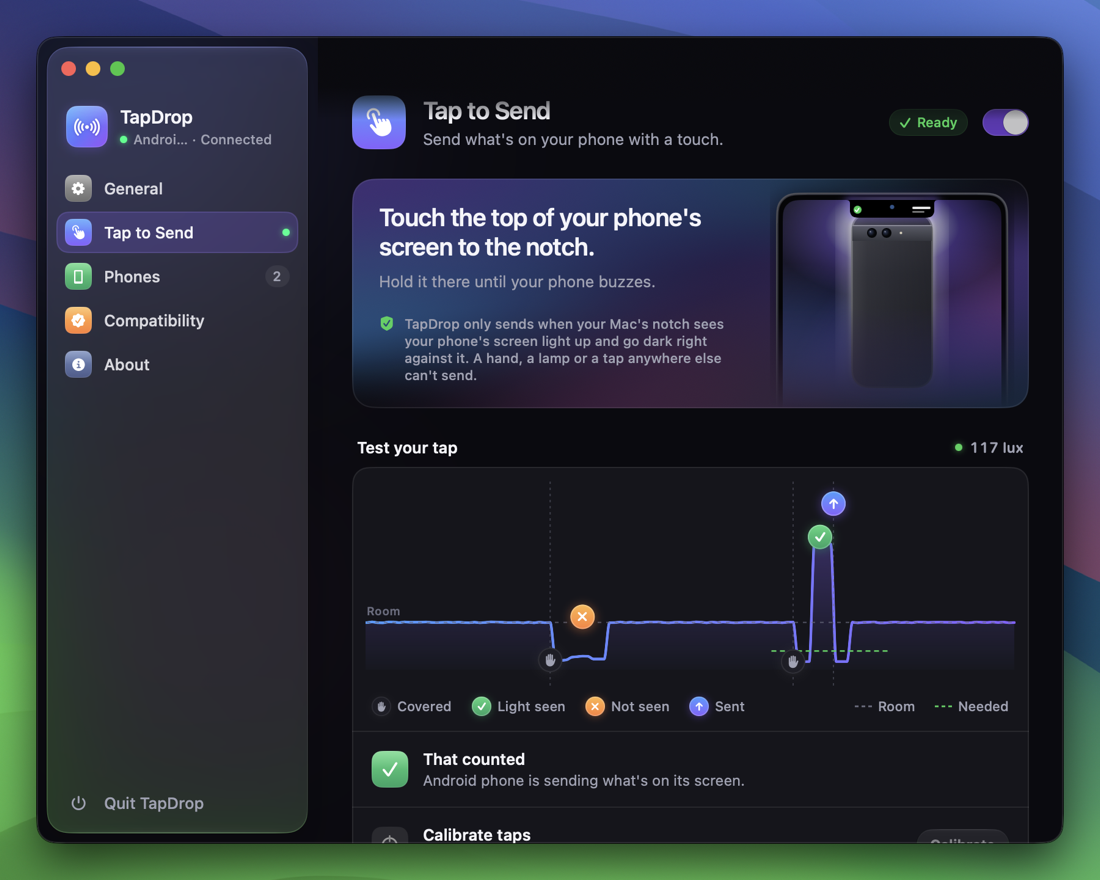
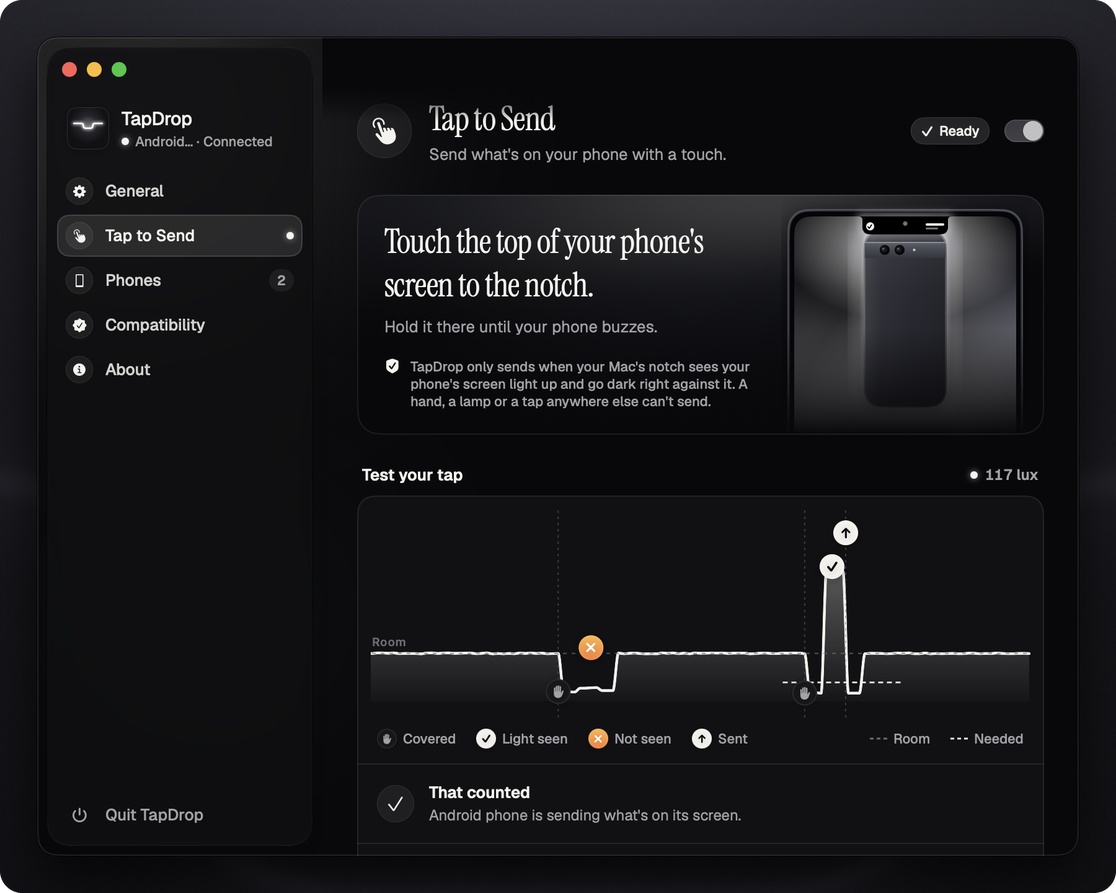
README and docs in Lumen: new screenshots, light and dark
Every picture in the README is new, from the emulator and a stand-in
Mac, in both looks; GitHub shows the one that matches the reader's
theme. DESIGN.md describes Lumen as the apps build it, and the labels
that changed in the apps (Photos & videos for tap, the menu bar icon)
are right in the README, the install guide and the website.

diff --git a/docs/DESIGN.md b/docs/DESIGN.md
@@ -1,63 +1,79 @@
-# TapDrop design system
+# TapDrop design system: Lumen
 
 One product on two platforms. Each app should feel native to its platform and built by the same people.
-The Mac app is native SwiftUI with Liquid Glass. The Android app uses Material 3 Expressive with real glass blur.
+The Mac app is native SwiftUI with Liquid Glass. The Android app is Jetpack Compose on Material 3 Expressive, with
+real glass blur. The website (`site/`) follows the same system; its tokens are in `site/src/styles/tokens.css`.
+
+The tokens live in code: `mac/Sources/TapDrop/DesignSystem.swift` (`TD`, `TDFont`, `TDGlass`) and
+`android/app/src/main/kotlin/app/tapdrop/ui/Theme.kt` (`Brand`, `Td.colors`, `Td.type`, `TdSpace`, `TdRadius`,
+`TdMotion`). This page is the source of truth; change it first.
 
 ## Idea
 
-TapDrop is about light. A tap only counts when the Mac's notch sees the phone's light. The visual language
-follows from that: deep, quiet surfaces, luminous accents, and motion that feels physical (springs, momentum,
-glow). Everything else steps back so the content (photos, links, codes) is the hero.
+**Light, in the dark.** A tap is a phone's screen lighting up against the notch and going dark, so TapDrop is made of
+night and light: near-black, bone white, and one cool glow where they meet. There is no accent hue. Colour comes from
+the person's own photos, links and files, which are always the hero. Semantic colours (danger, warning) appear only
+where something needs fixing.
+
+The mark is the **Notchline**: the notch's outline traced in one line of light. It's the app icon (the lit line on a
+night tile), the Mac's menu bar icon, the horizon on the phone's home screen and the website's logo.
 
 ## Color
 
-Brand ("Aurora"). Keep these exact values; they match the app icon and the demo video.
+Brand:
 
 | Token | Hex | Use |
 |---|---|---|
-| `aurora.blue` | `#409EFF` | gradient start, info |
-| `aurora.violet` | `#8561FF` | primary accent, focus, selection |
-| `aurora.orchid` | `#F26BD9` | gradient end, highlights (sparingly) |
-| `aurora.gradient` | blue → violet (→ orchid for hero glow only) | primary buttons, hero glyphs, progress |
+| `night` | `#08080A` | The dark background; ink in light mode |
+| `graphite` | `#17171A` | Raised dark surfaces |
+| `bone` | `#F4F3EF` | Text in dark mode, the accent fill, light backgrounds |
+| `ink` | `#0B0B0D` | Text and the accent fill in light mode |
+| `light` | `#D6DEFF` | The glow: the cool white of a screen's light. Halos and hero spills only, never a fill |
 
-Neutrals:
+Neutrals, by role:
 
 | Token | Dark | Light |
 |---|---|---|
-| `bg` | `#0A0A0F` | `#F4F4F8` |
-| `surface` (cards) | `#15151C` | `#FFFFFF` |
-| `surfaceRaised` | `#1C1C25` | `#FFFFFF` + shadow |
+| `bg` | `#08080A` | `#EFEDE7` |
+| `surface` (cards) | `#111114` | `#FFFFFF` |
+| `surfaceRaised` | `#17171A` | `#FFFFFF` + shadow |
 | `hairline` | white 8% | black 7% |
-| `text` | `#F5F5FA` | `#111118` |
-| `textSecondary` | `#A0A2B4` | `#5E6173` |
-| `textTertiary` | `#6B6D80` | `#8E90A2` |
+| `text` | `#F4F3EF` | `#0B0B0D` |
+| `textSecondary` | `#A2A2A8` | `#5F5E59` |
+| `textTertiary` | `#6E6E75` | `#8C8A84` |
+| `accent` (primary fills, selection, progress) | bone | ink |
+| `onAccent` | night | bone |
 
-Semantic: `success #2ED17A`, `warning #FFB020`, `danger #FF5A5F`. On the Mac use the system colors
-(`.green`, `.orange`, `.red`) so they adapt to the appearance.
+Semantic: **success is bone or ink with the glow, never green.** Danger `#FF7A72` (dark) / `#D9443C` (light) and
+warning `#F0B45A` / `#C98A1E` on Android; on the Mac use the system `.red` and `.orange` so they adapt.
 
 Rules:
-- Dark mode is the hero, and light mode must be equally finished.
-- The gradient is an accent: at most one gradient element per view, plus the hero glow.
-- Glow is violet at 35–45% alpha, heavily blurred, and goes behind hero elements only.
+- Dark mode is the hero, and light mode must be equally finished. Both follow the system unless the person picks
+  Light or Dark in Settings.
+- Things that are hardware stay hardware in both modes: the notch, the island and the phone are black, and anything
+  drawn inside them uses the dark palette (a tick in the island is ink on a bone disc in either mode).
+- A "display" (the Test your tap scope, a drawn Mac screen) is night in both modes, so its marks are bone.
+- The glow is `light` at 35–55%, heavily blurred, behind hero elements only. In light mode the glow is white on bone.
 
 ## Type
 
-- **Mac:** SF Pro (system).
-  - Titles are semibold with slightly negative tracking: −0.3 at 20pt, −0.5 at 28pt.
-  - Use `.rounded` with `.monospacedDigit()` for numbers, codes and sizes.
-  - Use `.contentTransition(.numericText())` wherever a number changes.
-- **Android:** Geist, bundled in `res/font` (variable font, SIL OFL), for all text. Use Geist Mono for codes.
+| Face | Use |
+|---|---|
+| **Instrument Serif** (regular and italic) | The big moments: hero lines and screen titles. The last word goes italic, with a full stop ("Ready to *tap.*", "Pair with your *Mac.*") |
+| **Geist** (variable) | Everything read: body, rows, buttons, labels |
+| **Geist Mono** | Codes, addresses, readings and eyebrows (small capitals, +12–14% tracking: "RECENT", "112 LUX") |
 
-  | Style | Size / line | Weight | Tracking |
-  |---|---|---|---|
-  | display | 34/40 | Bold | −1% |
-  | headline | 26/32 | SemiBold | −0.5% |
-  | title | 20/26 | SemiBold | |
-  | body | 16/24 | Regular | |
-  | label | 14/20 | Medium | |
-  | caption | 12/16 | Medium | |
-- **Copy:** sentence case, short, concrete, warm. Never technical in the main flow. Numbers and diagnostics
-  go behind "Details".
+All three are SIL OFL and ship with both apps (Mac: `Resources/Fonts`, registered at launch, falling back to SF;
+Android: `res/font`). The wordmark is "Tap" in Geist and "*Drop*" in the serif's italic.
+
+- **Android** (`TdType`): hero 62/60 serif, display 42/44 serif, headline 24/30 Medium, title 19/24 Medium,
+  subtitle 16/22 Medium, body 16/24, label 14/20 Medium, caption 12/16, eyebrow Geist Mono 11/14 +14%, mono 16/24,
+  reading 26/30 Light with tabular figures. Display sizes track −2%.
+- **Mac** (`TDFont`): hero serif 34 (−0.6), title serif 27 (−0.4), then Geist 17 / 15 / 13 / 12 / 11, and Geist Mono 10
+  (+1.2) for badges and eyebrows. Use tabular figures for anything that changes (`.monospacedDigit()`,
+  `.contentTransition(.numericText())`).
+- **Copy:** sentence case, short, concrete, warm. Never technical in the main flow. Numbers and diagnostics go
+  behind "Details".
 
 ## Shape and space
 
@@ -70,68 +86,64 @@ Rules:
   | rows | 12 |
   | cards | 18 |
   | panel | 26 |
-  | island | matches the notch, then a capsule |
+  | island | matches the notch, then grows to its own rounded bottom |
 - **Android:**
-  - Cards: 28 dp.
+  - Cards: 28 dp. Sheets: 32 dp. Fields: 16 dp. Chips: 12 dp.
   - Settings groups are segmented: the outer corners are 24 dp, the inner corners 6 dp, with 2 dp gaps between
     items (Android 16 style).
-  - Buttons are full pills; chips are 12 dp.
-  - Touch targets are at least 48 dp.
+  - Buttons are full pills. Touch targets are at least 48 dp.
 
 ## Materials
 
 - **Mac:**
-  - On macOS 26 and later, use Liquid Glass: `.glassEffect(...)`, `GlassEffectContainer`, `.buttonStyle(.glass)`
-    and `.buttonStyle(.glassProminent)`, and `glassEffectID` morphing where content changes shape.
-  - On macOS 15, fall back to `.ultraThinMaterial` with a 1 px top-edge highlight (white 10%) and a soft shadow.
-  - Wrap this in one modifier (`.tdGlass(...)`) so screens never branch on the OS version themselves.
+  - On macOS 26 and later, Liquid Glass: `.glassEffect(...)`, `GlassEffectContainer`, and `glassEffectID` morphing
+    where content changes shape. On macOS 15, `.ultraThinMaterial` with a 1 px top-edge highlight and a soft shadow.
+  - It's all behind one modifier (`.tdGlass(...)`), so screens never branch on the OS version.
+  - Big surfaces (the menu bar panel, Settings' sidebar) lay a wash under their content (`TD.panelWash`: bone 86% in
+    light, night 80% in dark) so dense text stays legible on any wallpaper. Glass is quiet: no colour tint.
 - **Android:**
-  - Use Haze for real backdrop blur on top app bars, bottom sheets and floating toolbars.
-  - Cards are solid tonal surfaces with a hairline border in dark mode, so lists stay crisp and fast.
+  - Haze for real backdrop blur on top bars, bottom sheets and floating toolbars.
+  - Cards are solid tonal surfaces with a hairline, so lists stay crisp and fast.
+- **Lit controls, never flat white.** The accent button is lit: bone with a soft top-to-bottom falloff, a rim and a
+  faint glow of the notch's light in dark mode; ink with a sheen and a soft shadow in light mode. Neutral buttons are
+  raised: a gentle gradient and a rim that catches the light (Mac: `LitCapsule`; Android: `litFill`, `litHalo`,
+  `raisedFill`).
 
 ## Motion
 
 Motion has to feel physical, never decorative. Everything that changes state animates, and nothing loops forever
 except live indicators.
 
-- **Mac:**
-  - Springs:
+| Spring | Response | Damping | Use |
+|---|---|---|---|
+| standard | 0.38 | 0.86 | Most state changes |
+| emphasized | 0.5 | 0.72 | Arrivals and celebrations |
+| island | 0.42 | 0.78 | The notch island growing and shrinking (Mac) |
+| snappy | | 0.62 | Presses and toggles (Android) |
+| gentle | | 1.0 | Ambient changes: glows, backdrops, no overshoot |
 
-    | Spring | Response | Damping |
-    |---|---|---|
-    | standard | 0.38 | 0.86 |
-    | emphasized | 0.5 | 0.72 |
-    | island | 0.42 | 0.78 |
-  - SF Symbol effects: bounce on success, pulse for live, iterative `variableColor` while searching, and
-    `.replace` transitions between symbols.
-- **Android:**
-  - `MotionScheme.expressive()`, with spring specs throughout.
-  - Shape morphing (`MaterialShapes` with graphics-shapes) for the hero status shape.
-  - The expressive `LoadingIndicator` while searching.
-  - Shared-element transitions between home and detail pages, and predictive back.
-- **Haptics:**
-  - Mac: `NSHapticFeedbackManager` on accept and confirm.
-  - Android: `Haptics.kt` on every meaningful state change.
-- **Reduced motion:** honour it everywhere by swapping springs for quick fades.
+- The Notchline blooms when a tap counts, and live dots breathe. Light arrives and leaves; it never blinks.
+- **Haptics:** Mac `NSHapticFeedbackManager` on accept and confirm; Android `Haptics.kt` on every meaningful change.
+- **Reduced motion:** honour it everywhere by swapping springs for quick fades (Mac 0.2 s, Android 140 ms).
 
 ## Iconography
 
-- Mac: SF Symbols with hierarchical rendering, medium weight.
-- Android: `Icons.Rounded.*` throughout. Don't mix in other styles.
-- Icon chips are a 28–36 pt rounded square or a Material shape, holding a tinted or gradient symbol.
+- Mac: SF Symbols, hierarchical rendering, medium weight. Android: `Icons.Rounded.*` throughout; don't mix styles.
+- Icons are monochrome (text colour on a quiet well). The only coloured things on screen are the person's content.
+- The Notchline is the brand mark: always one line, never filled, never with a second colour.
 
 ## Components (same names on both platforms)
 
 | Component | What it is |
 |---|---|
-| `AuroraBackdrop` | A slow, low-contrast animated mesh gradient (Mac: `MeshGradient`; Android: drifting radial blobs). Hero areas only. |
+| `Notchline` | The mark: lit (core line over a blurred halo) on dark, ink with a white halo on bone. |
 | `GlassCard` | The standard container (glass on Mac, tonal card on Android). |
-| `StatusPill` | A live dot plus a label. Live = green with a soft pulse; searching = amber with an animated arc; offline = gray; error = red. |
-| `DeviceHero` | An illustration of the other device (phone or MacBook with its notch), with the link state drawn as light between them. |
-| `ActionTile` | An icon chip, a title and a subtitle. Press scale 0.97, with haptics. |
-| `SettingsGroup` / `SettingsRow` | An icon chip, title, optional subtitle, and a trailing control or chevron. |
-| `PrimaryButton` | Gradient fill (Android) or `glassProminent` tinted violet (Mac). `SecondaryButton` is glass (Mac) or tonal (Android). |
-| `ProgressRing`, `CheckBurst` | Transfer progress, and success: the ring morphs to a check that draws itself, with a short glow burst. |
+| `StatusPill` | A live dot plus a label. Live: a bone (or ink) dot with the light's halo and a soft pulse; searching: an orbiting arc; offline: grey; error: the danger colour. |
+| `DeviceHero` | An illustration of the other device (a phone or a MacBook with its notch), with the link drawn as light between them. |
+| `ActionTile` | An icon well, a title and a subtitle. Press scale 0.97, with haptics. |
+| `SettingsGroup` / `SettingsRow` | An icon well, title, optional subtitle, and a trailing control or chevron. |
+| `PrimaryButton` / `SecondaryButton` | Lit accent (bone in dark, ink in light) / raised neutral. Both are pills. |
+| `ProgressRing`, `CheckBurst` | Transfer progress, and success: the ring becomes a check that draws itself, in `onAccent` on the accent. |
 | `Island` (Mac notch HUD) and `Pill` (Android overlay) | The same anatomy: leading visual (thumbnail, icon or ring), title, subtitle, trailing action. They grow out of the notch or camera hole as pure black so they look like hardware. |
 
 ## The tap, in words

diff --git a/README.md b/README.md
@@ -9,14 +9,14 @@
 AirDrop-style sharing between Android and Mac: tap to send, share sheets both ways, a shared clipboard and
 one-time codes. Everything stays on your own Wi-Fi, end-to-end encrypted.
 
-![macOS 15+](https://img.shields.io/badge/macOS-15%2B-000?logo=apple&logoColor=white)
-![Apple silicon](https://img.shields.io/badge/Apple%20silicon-notch%20Macs-555)
-![Android 13+](https://img.shields.io/badge/Android-13%2B-3DDC84?logo=android&logoColor=white)
-![Swift](https://img.shields.io/badge/Swift-SwiftUI-F05138?logo=swift&logoColor=white)
-![Kotlin](https://img.shields.io/badge/Kotlin-Compose-7F52FF?logo=kotlin&logoColor=white)
-![Encrypted](https://img.shields.io/badge/end--to--end-AES--256--GCM-1f6feb)
-![MIT License](https://img.shields.io/badge/license-MIT-2ea44f)
-![Free](https://img.shields.io/badge/price-free-2ea44f)
+![macOS 15+](https://img.shields.io/badge/macOS-15%2B-2a2a2e?logo=apple&logoColor=white&style=flat-square&labelColor=0b0b0d&color=2a2a2e)
+![Apple silicon](https://img.shields.io/badge/Apple%20silicon-notch%20Macs-2a2a2e?style=flat-square&labelColor=0b0b0d&color=2a2a2e)
+![Android 13+](https://img.shields.io/badge/Android-13%2B-2a2a2e?logo=android&logoColor=white&style=flat-square&labelColor=0b0b0d&color=2a2a2e)
+![Swift](https://img.shields.io/badge/Swift-SwiftUI-2a2a2e?logo=swift&logoColor=white&style=flat-square&labelColor=0b0b0d&color=2a2a2e)
+![Kotlin](https://img.shields.io/badge/Kotlin-Compose-2a2a2e?logo=kotlin&logoColor=white&style=flat-square&labelColor=0b0b0d&color=2a2a2e)
+![Encrypted](https://img.shields.io/badge/end--to--end-AES--256--GCM-2a2a2e?style=flat-square&labelColor=0b0b0d&color=2a2a2e)
+![MIT License](https://img.shields.io/badge/license-MIT-2a2a2e?style=flat-square&labelColor=0b0b0d&color=2a2a2e)
+![Free](https://img.shields.io/badge/price-free-2a2a2e?style=flat-square&labelColor=0b0b0d&color=2a2a2e)
 
 **[Website](https://tapdrop.pages.dev)** ·
 **[Download for Mac (.dmg)](https://github.com/0x1p0/TapDrop/releases/latest/download/TapDrop.dmg)** ·
@@ -28,16 +28,16 @@ Free and open source. No accounts, no cloud, no tracking.
 
 <br>
 
-<img src="docs/images/mac-island.png" width="760" alt="The notch island on the Mac: Received 3 photos from Android phone">
+<picture><source media="(prefers-color-scheme: light)" srcset="docs/images/mac-island-light.png"><img src="docs/images/mac-island.png" width="880" alt="The notch island on a Mac: Received 3 photos, from Android phone, in Downloads"></picture>
 
-<br><br>
+<br>
 
 <table>
 <tr>
-<td align="center"><img src="docs/images/mac-panel.png" width="280" alt="Menu bar panel"><br><sub><b>Menu bar panel</b></sub></td>
-<td align="center"><img src="docs/images/android-home.png" width="200" alt="Android home"><br><sub><b>Android home</b></sub></td>
-<td align="center"><img src="docs/images/android-settings.png" width="200" alt="Android settings"><br><sub><b>Settings</b></sub></td>
-<td align="center"><img src="docs/images/android-test-your-tap.png" width="200" alt="Test your tap on Android"><br><sub><b>Test your tap</b></sub></td>
+<td align="center"><picture><source media="(prefers-color-scheme: light)" srcset="docs/images/mac-panel-light.png"><img src="docs/images/mac-panel.png" width="250" alt="The menu bar panel on the Mac"></picture><br><sub><b>Menu bar panel</b></sub></td>
+<td align="center"><picture><source media="(prefers-color-scheme: light)" srcset="docs/images/android-home-light.png"><img src="docs/images/android-home.png" width="190" alt="TapDrop's home screen on Android: Ready to tap"></picture><br><sub><b>Ready to tap</b></sub></td>
+<td align="center"><picture><source media="(prefers-color-scheme: light)" srcset="docs/images/android-settings-light.png"><img src="docs/images/android-settings.png" width="190" alt="TapDrop's settings on Android"></picture><br><sub><b>Settings</b></sub></td>
+<td align="center"><picture><source media="(prefers-color-scheme: light)" srcset="docs/images/android-test-your-tap-light.png"><img src="docs/images/android-test-your-tap.png" width="190" alt="Test your tap on Android: That counted"></picture><br><sub><b>Test your tap</b></sub></td>
 </tr>
 </table>
 
@@ -72,6 +72,7 @@ Free and open source. No accounts, no cloud, no tracking.
 | **Notch island** | Transfers, results and codes animate out of the notch, Dynamic Island style, and never sit under the camera. |
 | **Per-app control** | Choose what each Android app sends: Smart, page link, the photo or video on screen, the latest shot, a screenshot, the text on screen, or nothing. |
 | **Test your tap** | A live graph of what the notch sees, on both the Mac and the phone, with a plain-words verdict for every tap. |
+| **Light and dark** | Both apps follow your system, or pick Light or Dark: on the Mac in **Settings → General → Appearance**, on the phone in **Settings → Appearance**. |
 
 ## Tap to send
 
@@ -82,7 +83,7 @@ Free and open source. No accounts, no cloud, no tracking.
 The phone's screen flashes white, then black, against the notch. The Mac sees it and the content flies over. With
 **Pick before sending** on, you get a moment to tap one photo or drag over some text to send just that part.
 
-<p align="center"><img src="docs/images/mac-tap-to-send.png" width="760" alt="Mac Settings, Tap to Send, with the live Test your tap graph"></p>
+<p align="center"><picture><source media="(prefers-color-scheme: light)" srcset="docs/images/mac-tap-to-send-light.png"><img src="docs/images/mac-tap-to-send.png" width="760" alt="Mac Settings, Tap to Send, with the live Test your tap graph and a tap that counted"></picture></p>
 
 ## What a tap sends
 
@@ -97,6 +98,8 @@ Smart mode decides from what's on screen. You can override it per app.
 | The camera | Your newest shot |
 | Anything else | A screenshot, also copied to the Mac's clipboard |
 
+<p align="center"><picture><source media="(prefers-color-scheme: light)" srcset="docs/images/android-apps-light.png"><img src="docs/images/android-apps.png" width="230" alt="What each app sends, on Android: Smart in every app, or your own choice per app"></picture><br><sub>Per app, in <b>Settings → What each app sends</b> on the phone.</sub></p>
+
 Received files go to your Downloads folder by default, or a folder you choose. Links open in your browser, and text and
 codes go to the clipboard.
 
@@ -105,7 +108,7 @@ codes go to the clipboard.
 > (documents) or by fingerprinting your library in the background (photos and videos): a 256-bit hash of each photo,
 > and of about one frame per second of each video. A match has to be close and clearly better than every other
 > candidate. If it isn't, you get a screenshot, never a guess. Videos are only searched in galleries, chat apps and
-> video players. **Settings → Videos for tap** on the phone (and **Tap to Send → Status** on the Mac) shows how many
+> video players. **Settings → Photos & videos for tap** on the phone (and **Tap to Send → Status** on the Mac) shows how many
 > videos are ready.
 
 ## How TapDrop knows it's the notch
@@ -181,7 +184,7 @@ The [install guide](docs/INSTALL.md) (also on the [website](https://tapdrop.page
    ```
 5. When macOS asks *Allow "TapDrop" to find devices on local networks?*, click **Allow**.
 
-TapDrop lives in the menu bar (**((·))**) and opens at login. A **Set Up a Phone** window opens the first time. You can always get back to it from the menu bar icon → **Settings** → **Phones** → **Set Up a New Phone**.
+TapDrop lives in the menu bar (its icon is a single line that dips like the notch) and opens at login. A **Set Up a Phone** window opens the first time. You can always get back to it from the menu bar icon → **Settings** → **Phones** → **Set Up a New Phone**.
 
 ### 2. Install the Android app
 
@@ -250,7 +253,7 @@ Open **Test your tap** on the phone (Settings) or the Mac (Settings → Tap to S
 <details>
 <summary><b>A tap sent a screenshot instead of the video or file</b></summary>
 
-Allow **Original photos & videos** and **Any file**. Videos are fingerprinted in the background while the phone is unlocked and cool: **Settings → Videos for tap** shows how many are ready. Streaming apps (YouTube, Instagram, Netflix) don't keep videos as files, so they send a screenshot. On an app's own screen (Settings, a chat, a web app), a fresh screenshot is what's sent. The Mac's **Tap Log** (Settings → Tap to Send) says what the phone matched and why.
+Allow **Original photos & videos** and **Any file**. Videos are fingerprinted in the background while the phone is unlocked and cool: **Settings → Photos & videos for tap** shows how many are ready. Streaming apps (YouTube, Instagram, Netflix) don't keep videos as files, so they send a screenshot. On an app's own screen (Settings, a chat, a web app), a fresh screenshot is what's sent. The Mac's **Tap Log** (Settings → Tap to Send) says what the phone matched and why.
 </details>
 
 <details>

diff --git a/docs/INSTALL.md b/docs/INSTALL.md
@@ -67,7 +67,7 @@ reach each other over your Wi‑Fi.
 
 ### 4. Find it in the menu bar
 
-TapDrop lives in the menu bar, at the top right of your screen: the **((·))** icon. Click it to open the panel.
+TapDrop lives in the menu bar, at the top right of your screen: its icon is a single line that dips like the notch. Click it to open the panel.
 
 - It isn't in the Dock or ⌘‑Tab unless one of its windows (Settings, Set Up a Phone) is open. Closing the window
   keeps TapDrop running in the menu bar.
@@ -287,7 +287,7 @@ off and on in **Settings → Accessibility**. Then do [Let it run in the backgro
 ### A tap sent a screenshot instead of the photo, video or file
 
 - Allow **Original photos & videos** and **Any file** (Part 5).
-- Videos are fingerprinted in the background while the phone is unlocked and cool. **Settings → Videos for tap** on
+- Videos are fingerprinted in the background while the phone is unlocked and cool. **Settings → Photos & videos for tap** on
   the phone shows how many are ready.
 - Streaming apps (YouTube, Instagram, Netflix) don't keep videos as files, so they always send a screenshot.
 
